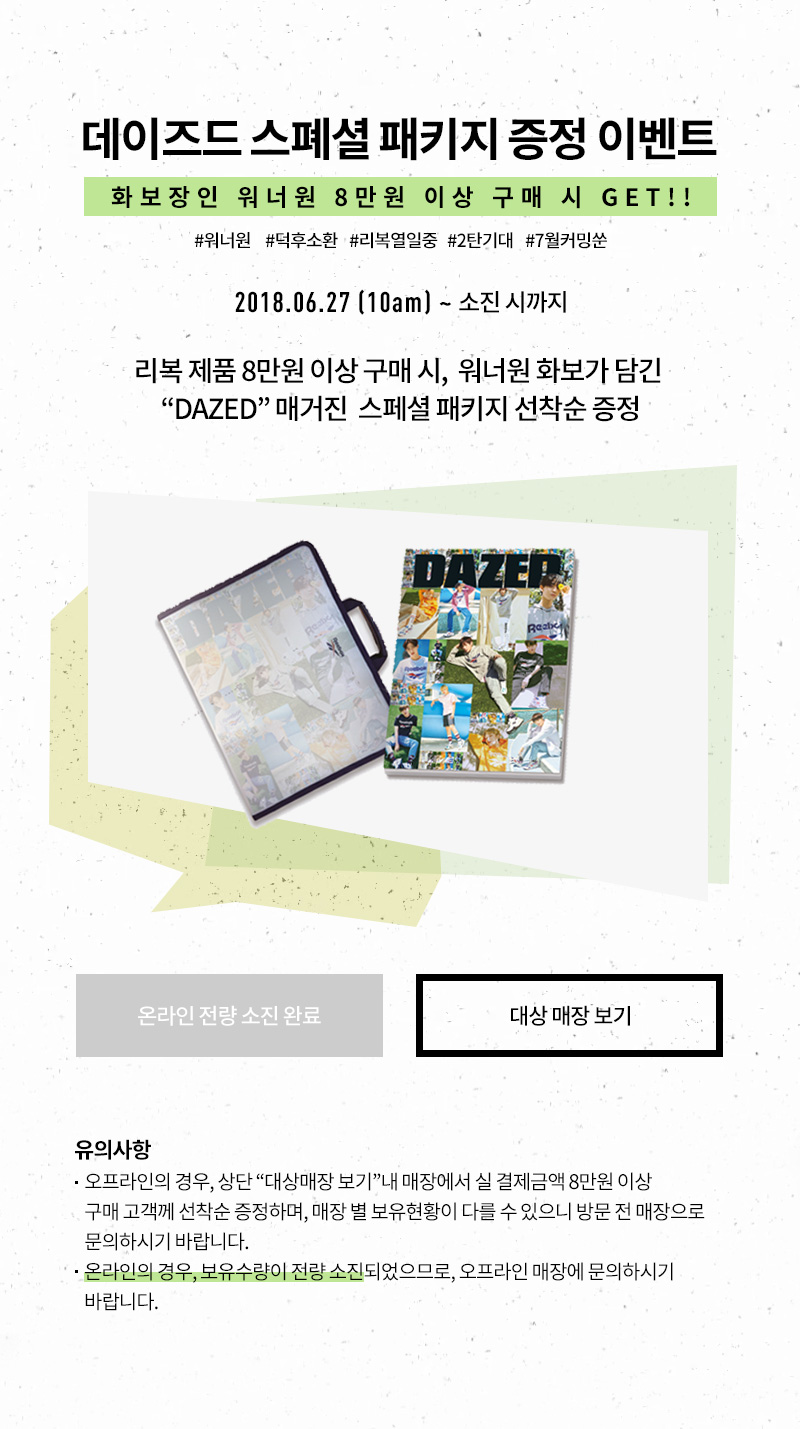
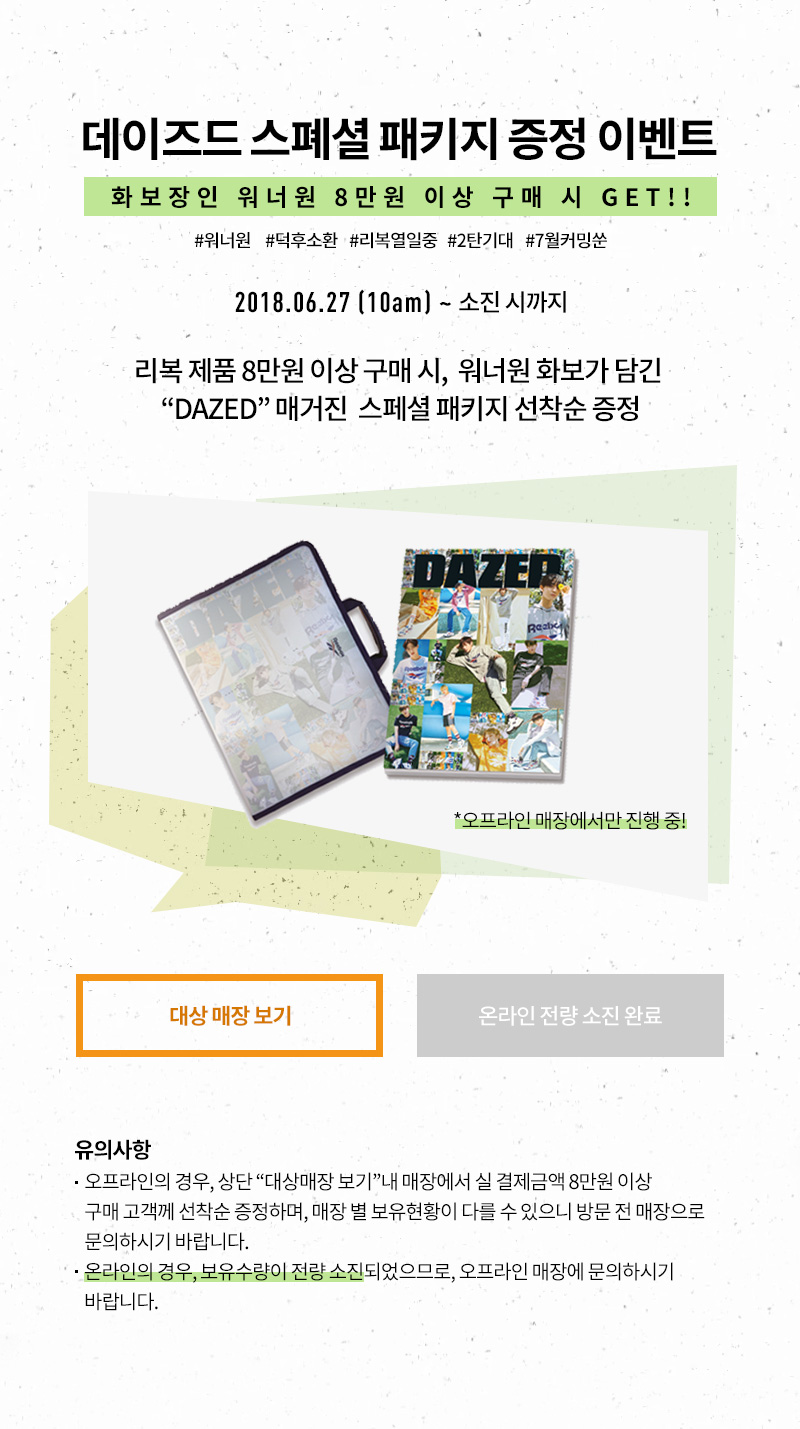
워너원 이벤트 종료 재수정

Changed region(s): [[0.0938, 0.6774, 0.9062, 0.739], [0.5625, 0.5542, 0.875, 0.585]]

diff --git a/app/html/reebok/event/aboutus/campaign/wannaone/build/index.html b/app/html/reebok/event/aboutus/campaign/wannaone/build/index.html
@@ -79,8 +79,8 @@
 					</div>
 					<div class="event_bnn">
 						<!-- <a href="http://m.reebok.co.kr/MO/Promotion/landingPage.action?pageNo=636" class="btn1"></a> -->
-						<a href="javascript:void(0)" class="btn1"></a>
-						<a href="http://shop.adidas.co.kr/upload/storelist/index.html?WannaOne_store_list" class="btn2" target="_blank"></a>
+						<a href="http://shop.adidas.co.kr/upload/storelist/index.html?WannaOne_store_list" class="btn1" target="_blank"></a>
+						<a href="javascript:void(0)" class="btn2" ></a>
 						<img src="/images/reebok/about/wannaone/180626/event_bnn_end.jpg"  alt="">
 					</div>
 

diff --git a/app/html/reebok/event/aboutus/campaign/wannaone/index.html b/app/html/reebok/event/aboutus/campaign/wannaone/index.html
@@ -77,8 +77,8 @@
 					</div>
 					<div class="event_bnn">
 						<!-- <a href="http://m.reebok.co.kr/MO/Promotion/landingPage.action?pageNo=636" class="btn1"></a> -->
-						<a href="javascript:void(0)" class="btn1"></a>
-						<a href="http://shop.adidas.co.kr/upload/storelist/index.html?WannaOne_store_list" class="btn2" target="_blank"></a>
+						<a href="http://shop.adidas.co.kr/upload/storelist/index.html?WannaOne_store_list" class="btn1" target="_blank"></a>
+						<a href="javascript:void(0)" class="btn2" ></a>
 						<img src="/images/reebok/about/wannaone/180626/event_bnn_end.jpg"  alt="">
 					</div>
 
